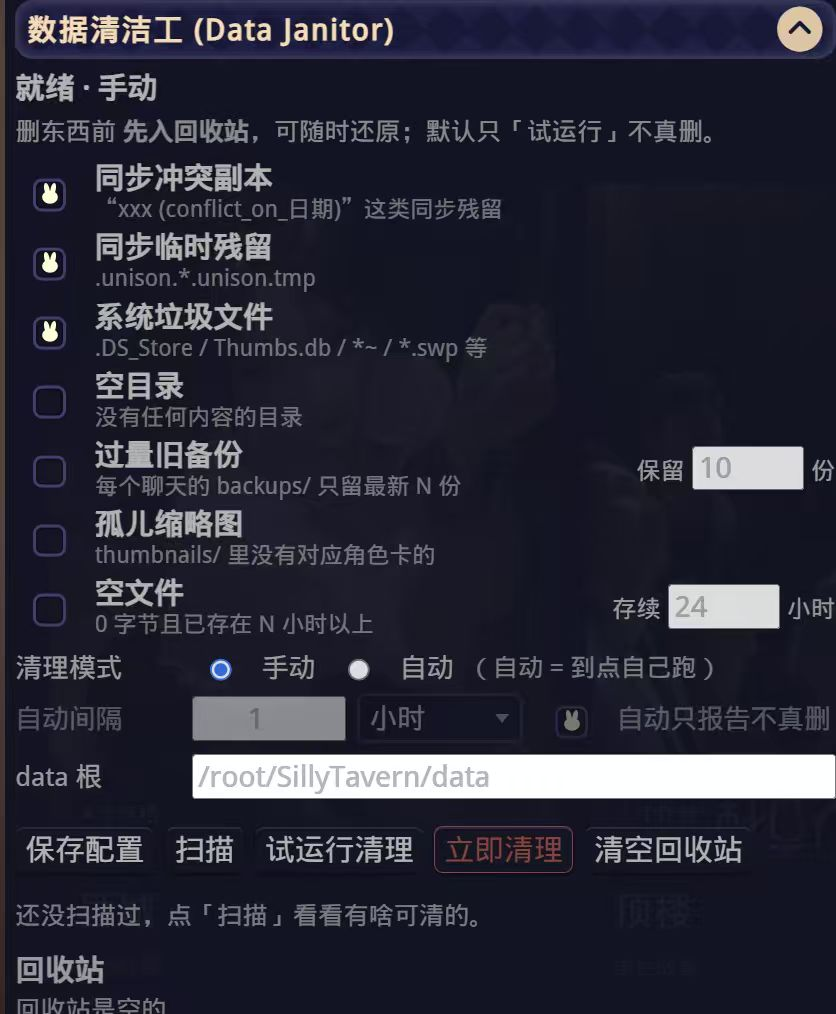
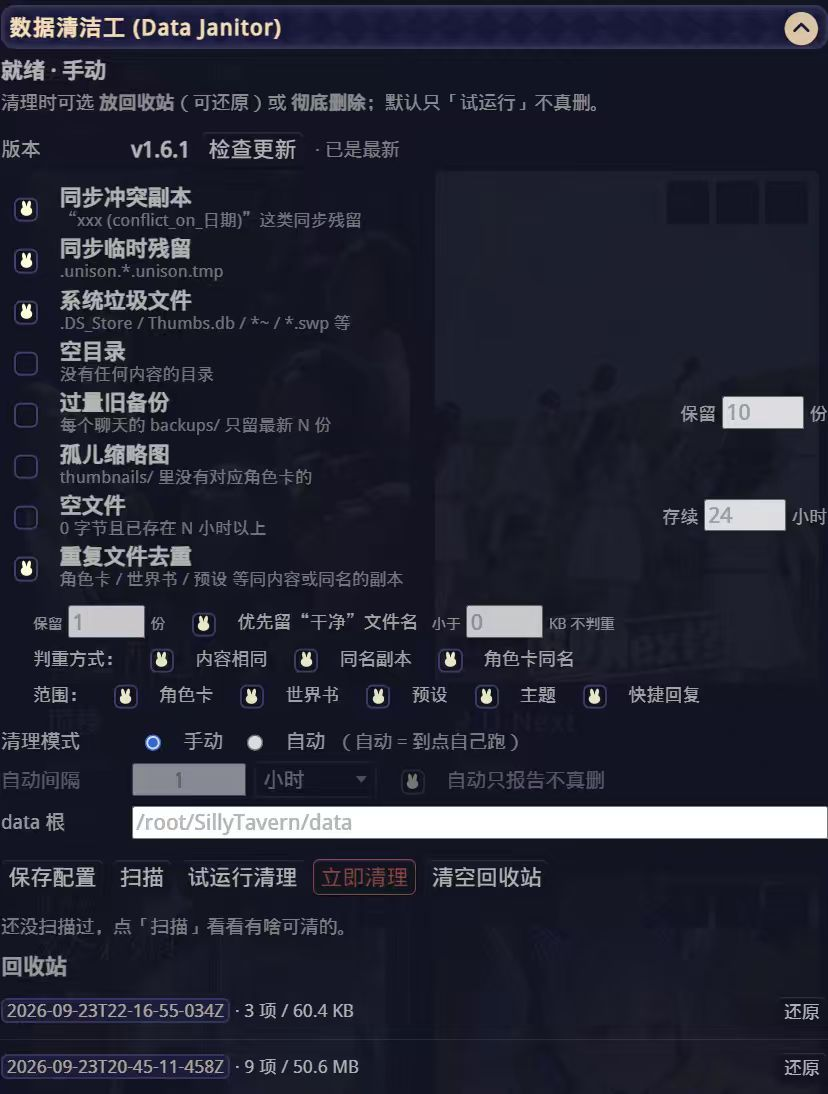
docs(assets): README 面板截图换成新的实拍（手机浏览器里的面板，828x1094）

diff --git a/README.md b/README.md
@@ -508,7 +508,7 @@ rm -rf /path/to/SillyTavern/data/default-user/extensions/st-data-janitor
 
 ### 面板操作（推荐）
 
-![数据清洁工 · 扩展面板](assets/screenshot-panel.jpg)
+![数据清洁工 · 扩展面板（手机浏览器里也能用）](assets/screenshot-panel.jpg?v=2)
 
 重启后打开酒馆 → 右侧「扩展」面板 → 找到 **数据清洁工 (Data Janitor)**：
 
